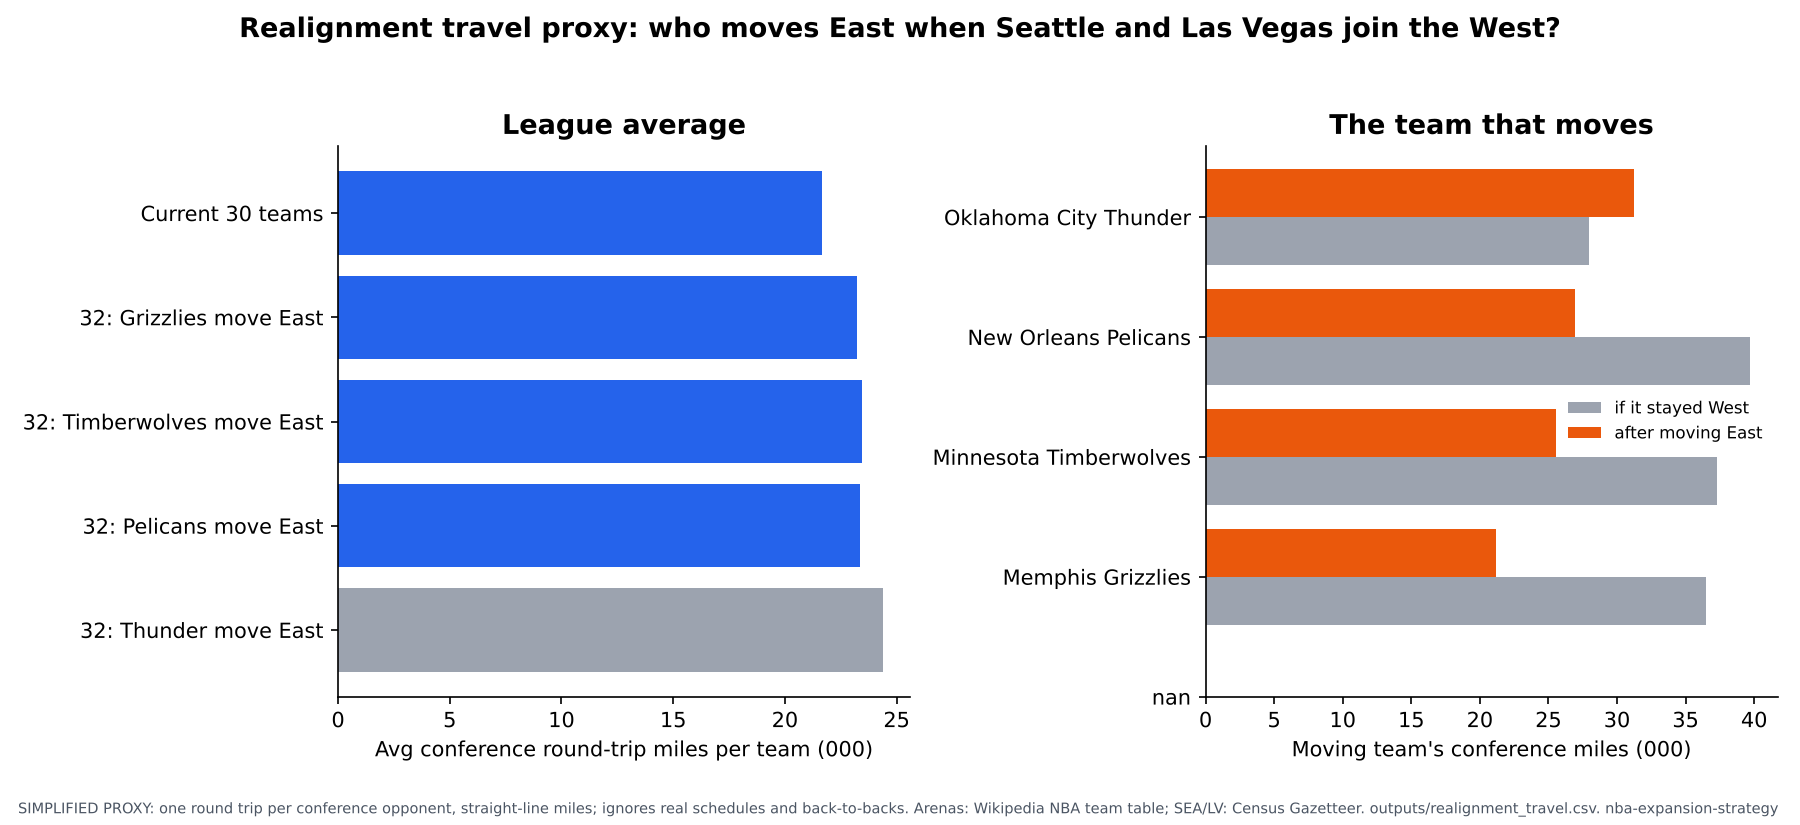
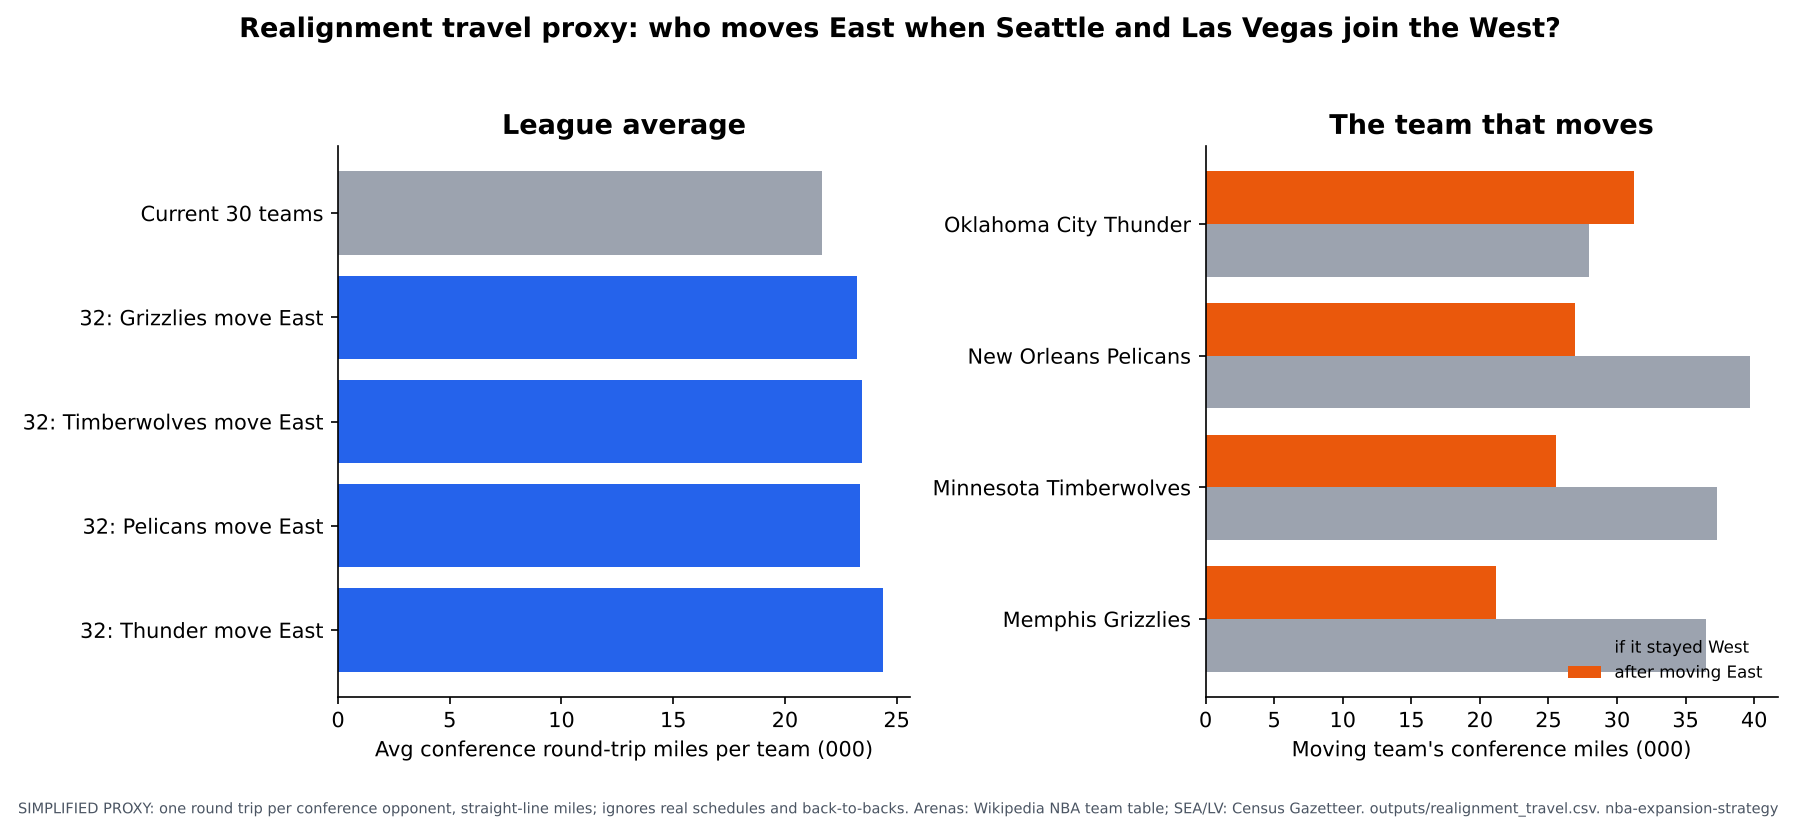
v4: fix realignment chart colors/legend and 'nan' row in key numbers; add no-nan doc test
Claude-Session: https://claude.ai/code/session_01NE31iE3YNrUTpyMEw6uLcX

diff --git a/src/figures.py b/src/figures.py
@@ -87,13 +87,13 @@ def main():
     rt = pd.read_csv(OUTPUTS / "realignment_travel.csv")
     fig, (a1, a2) = plt.subplots(1, 2, figsize=(12, 5.5))
     lab = rt["option"].str.replace("32 teams: ", "32: ")
-    a1.barh(lab[::-1], rt["avg_miles_per_team"][::-1] / 1000, color=[GRAY] + [BLUE] * (len(rt) - 1))
+    a1.barh(lab[::-1], rt["avg_miles_per_team"][::-1] / 1000, color=([GRAY] + [BLUE] * (len(rt) - 1))[::-1])
     a1.set_xlabel("Avg conference round-trip miles per team (000)"); a1.set_title("League average")
-    mv = rt[rt["moved_team"] != ""]
+    mv = rt[rt["moved_team"].notna() & (rt["moved_team"] != "")]
     y = np.arange(len(mv))
     a2.barh(y - 0.2, mv["moved_team_miles_if_stayed_west"] / 1000, 0.4, color=GRAY, label="if it stayed West")
     a2.barh(y + 0.2, mv["moved_team_miles"] / 1000, 0.4, color=ORANGE, label="after moving East")
-    a2.set_yticks(y, mv["moved_team"]); a2.set_xlabel("Moving team's conference miles (000)"); a2.set_title("The team that moves"); a2.legend(frameon=False, fontsize=8)
+    a2.set_yticks(y, mv["moved_team"]); a2.set_xlabel("Moving team's conference miles (000)"); a2.set_title("The team that moves"); a2.legend(frameon=False, fontsize=8, loc="lower right")
     fig.suptitle("Realignment travel proxy: who moves East when Seattle and Las Vegas join the West?", weight="bold", fontsize=13)
     source(fig, "SIMPLIFIED PROXY: one round trip per conference opponent, straight-line miles; ignores real schedules and back-to-backs. Arenas: Wikipedia NBA team table; SEA/LV: Census Gazetteer. outputs/realignment_travel.csv. " + REPO_NAME)
     fig.tight_layout(rect=(0, 0.05, 1, 0.95)); fig.savefig(FIGURES / "10_realignment_travel.png", dpi=150); plt.close(fig)

diff --git a/src/report.py b/src/report.py
@@ -105,7 +105,7 @@ def key_numbers(D):
     rt = pd.read_csv(OUTPUTS / "realignment_travel.csv")
     cur = rt[rt.option == "Current 30 teams"].iloc[0]
     items.append(("Avg conference travel per team, current 30 teams", f"{cur.avg_miles_per_team:,.0f} miles", "Proxy: one round trip to each conference opponent, straight-line", "simplified proxy", "outputs/realignment_travel.csv (Current 30 teams)"))
-    for _, row in rt[rt.moved_team != ""].iterrows():
+    for _, row in rt[rt.moved_team.notna() & (rt.moved_team != "")].iterrows():
         items.append((f"Realignment: {row.moved_team} move East", f"league avg {row.avg_miles_per_team:,.0f} mi/team; mover {row.moved_team_miles:,.0f} mi (vs {row.moved_team_miles_if_stayed_west:,.0f} if it stayed West)",
                       "32 teams, Seattle and Las Vegas in the West", "simplified proxy", f"outputs/realignment_travel.csv ({row.option})"))
     hm = pd.read_csv(MANUAL / "expansion_attendance_wiki.csv")

diff --git a/tests/test_docs.py b/tests/test_docs.py
@@ -31,3 +31,9 @@ def test_every_figure_used_in_readme():
     for f in (ROOT / "figures").glob("*.png"):
         if f.name != "linkedin_summary.png":
             assert f"figures/{f.name}" in readme, f"README does not show {f.name}"
+
+
+def test_no_nan_in_generated_docs():
+    for d in DOCS:
+        text = (ROOT / d).read_text()
+        assert not re.search(r"\bnan\b", text), f"{d} contains 'nan'"

diff --git a/outputs/KEY_NUMBERS.md b/outputs/KEY_NUMBERS.md
@@ -72,7 +72,6 @@ Generated by `src/report.py` from `outputs/`. Do not edit by hand.
 | Price / est. revenue: Las Vegas | 26.7x (24.5x-29.0x) | ESPN-reported ~$10B; revenue = local estimate + 1/32 of central revenue | +83% vs league-average multiple | outputs/bidder_multiples.csv (short_name=Las Vegas) |
 | Price / est. revenue: Omaha | 27.1x (22.9x-31.1x) | base fee: midpoint of reported $7-10B range; revenue = local estimate + 1/32 of central revenue | +86% vs league-average multiple | outputs/bidder_multiples.csv (short_name=Omaha) |
 | Avg conference travel per team, current 30 teams | 21,680 miles | Proxy: one round trip to each conference opponent, straight-line | simplified proxy | outputs/realignment_travel.csv (Current 30 teams) |
-| Realignment: nan move East | league avg 21,680 mi/team; mover nan mi (vs nan if it stayed West) | 32 teams, Seattle and Las Vegas in the West | simplified proxy | outputs/realignment_travel.csv (Current 30 teams) |
 | Realignment: Memphis Grizzlies move East | league avg 23,219 mi/team; mover 21,189 mi (vs 36,475 if it stayed West) | 32 teams, Seattle and Las Vegas in the West | simplified proxy | outputs/realignment_travel.csv (32 teams: Grizzlies move East) |
 | Realignment: Minnesota Timberwolves move East | league avg 23,438 mi/team; mover 25,543 mi (vs 37,318 if it stayed West) | 32 teams, Seattle and Las Vegas in the West | simplified proxy | outputs/realignment_travel.csv (32 teams: Timberwolves move East) |
 | Realignment: New Orleans Pelicans move East | league avg 23,376 mi/team; mover 26,939 mi (vs 39,715 if it stayed West) | 32 teams, Seattle and Las Vegas in the West | simplified proxy | outputs/realignment_travel.csv (32 teams: Pelicans move East) |

diff --git a/outputs/FINAL_REPORT.md b/outputs/FINAL_REPORT.md
@@ -14,8 +14,8 @@
 ## Tests
 
 ```
-.....................                                                    [100%]
-21 passed in 0.95s
+......................                                                   [100%]
+22 passed in 1.05s
 ```
 
 ## Runtime
